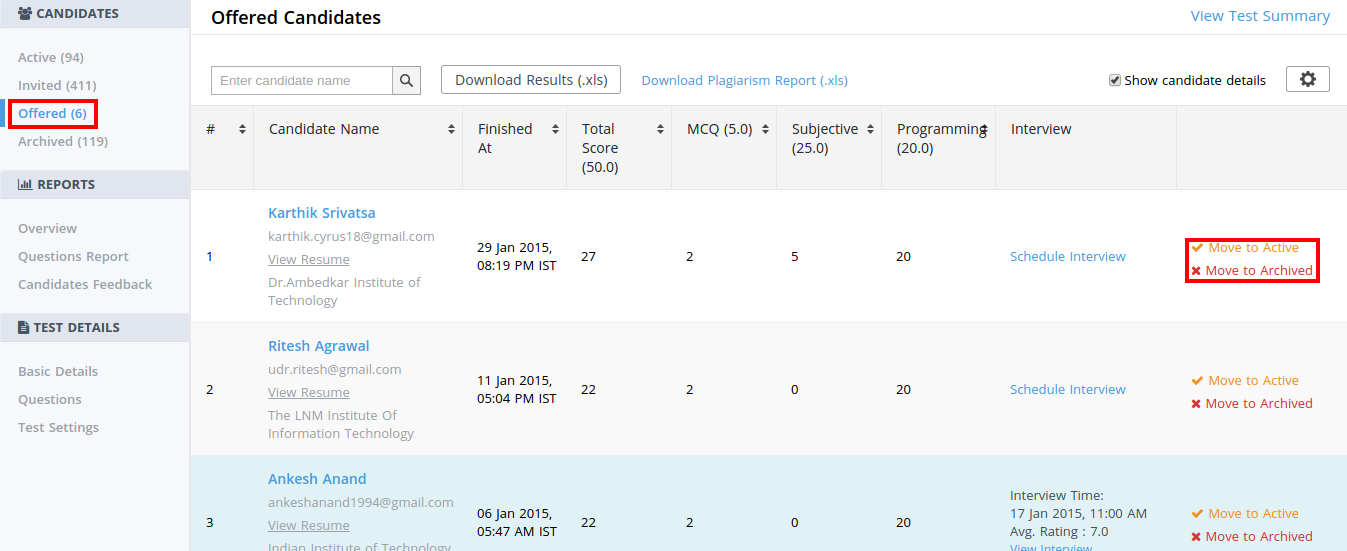
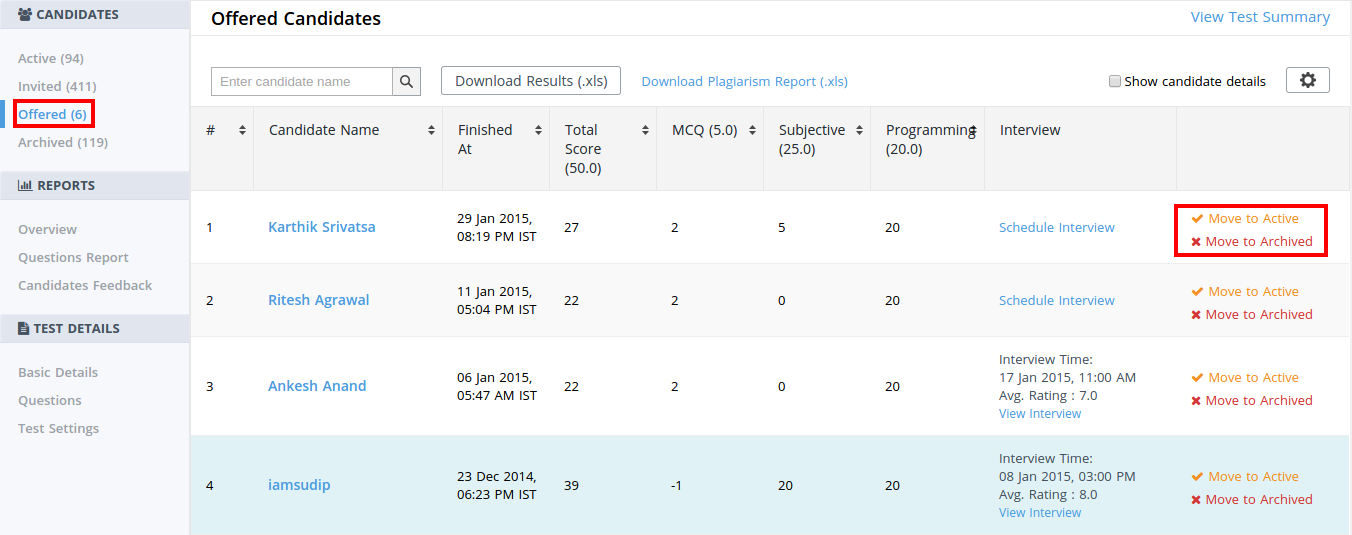
posts: images without email in candidate reports

diff --git a/_posts/2015-04-29-candidate-reports.md b/_posts/2015-04-29-candidate-reports.md
@@ -11,19 +11,27 @@ tags: [Recruiter, Candidate Reports]
 <br>Manage candidates based on their performance in the test. If you have accidentally added
 candidate to wrong list, you can always undo it.
 
+<img src="/images/candidate-actions.png" />
 
 **Active candidates**
 <br>This list contains candidates who have completed the test and yet to be processed.
 
+<img src="/images/active.png" />
+
 **Invited candidates**
 <br>Shows list of candidates invited to the test along with candidate status.
+
+<img src="/images/invited.png" />
 
 **Offered candidates**
 <br>This list contains candidates to whom the job position is offered after processing. 
 
+<img src="/images/offered.png" />
 
 **Archived candidates**
 <br>Candidates not meeting your requirements can be adding to this list.
+
+<img src="/images/archived.png" />
 
 
 *Send email to support@hackerearth.com for any bugs or suggestions.*
